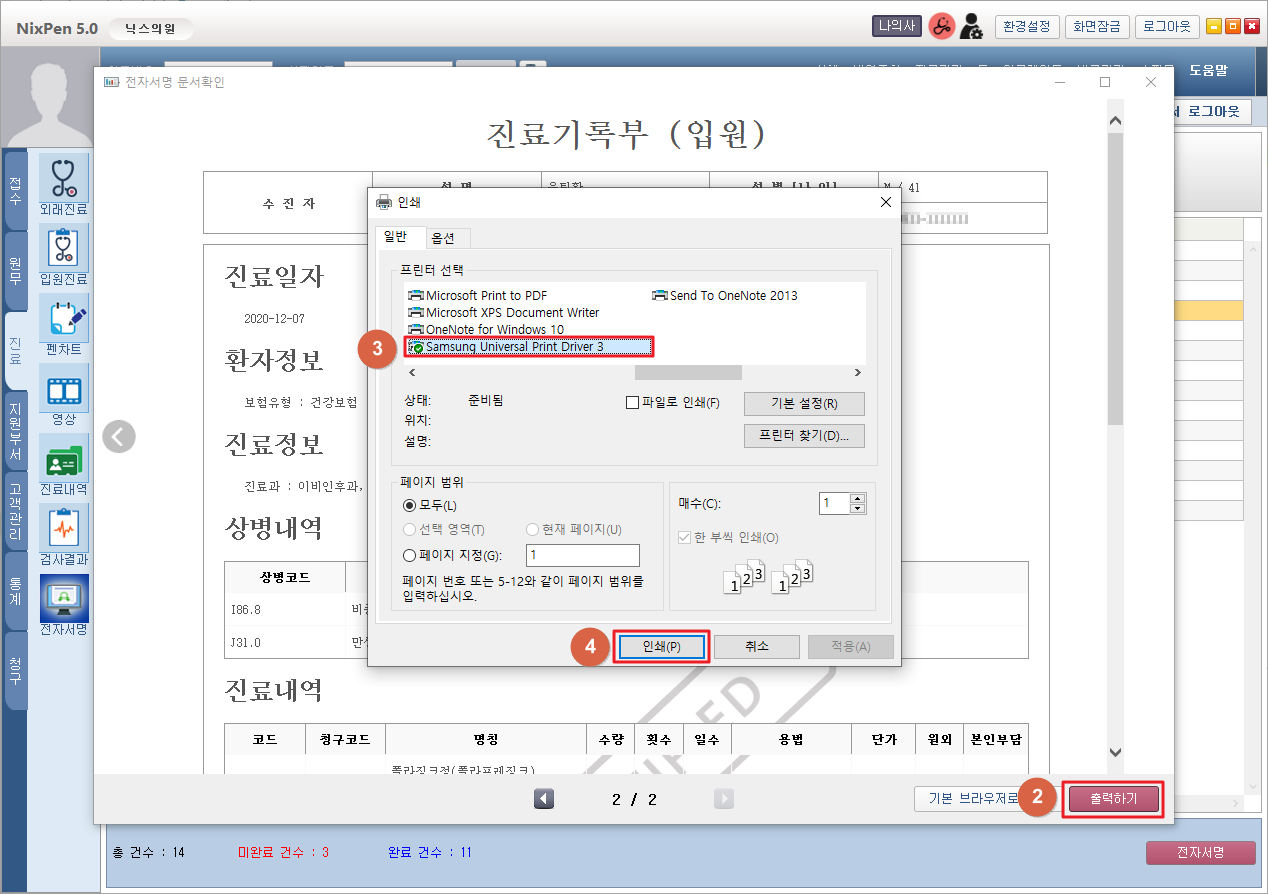
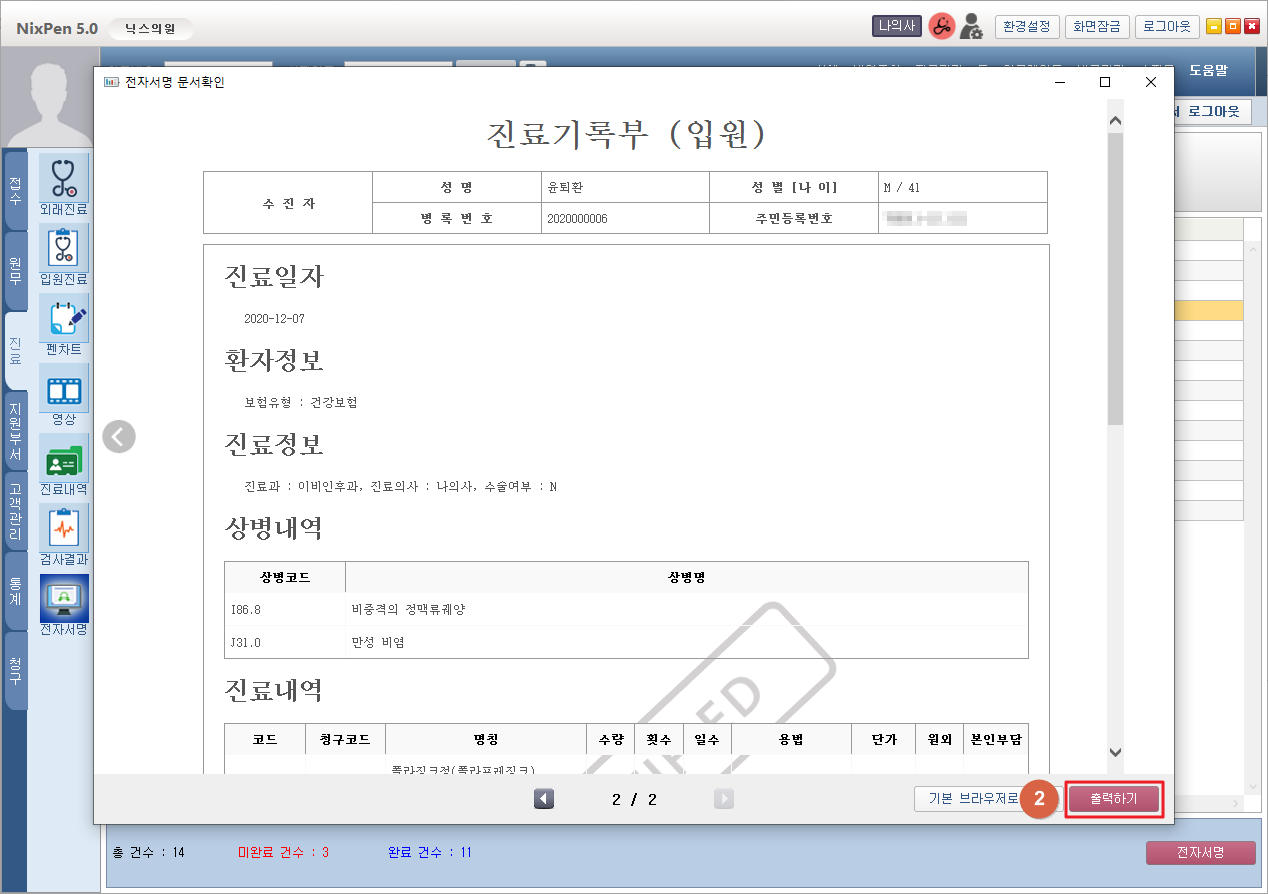
main6_sub7_page3 프린터관련 설명 제거

diff --git a/_docs/main6/sub7/page3.md b/_docs/main6/sub7/page3.md
@@ -8,15 +8,13 @@ pageOrder: 3
 <pre>
  <t2><bold>1. 전자서명 자료 출력하기</bold></t2>
      ① 출력하고자하는 문서를 더블클릭합니다.
-        서명완료된 문서에 한해 출력할 수 있습니다.
+         서명완료된 문서에 한해 출력할 수 있습니다.
 </pre>
 
 [![](/images/{{page.url}}_1.png)](/images/{{page.url}}_1.png){: target="_blank"}
 
 <pre>
      ② [출력하기] 버튼을 클릭합니다.
-     ③ 프린터를 선택합니다.
-     ④ [인쇄] 버튼을 클릭합니다.
 </pre>
 
 [![](/images/{{page.url}}_2.png)](/images/{{page.url}}_2.png){: target="_blank"}
